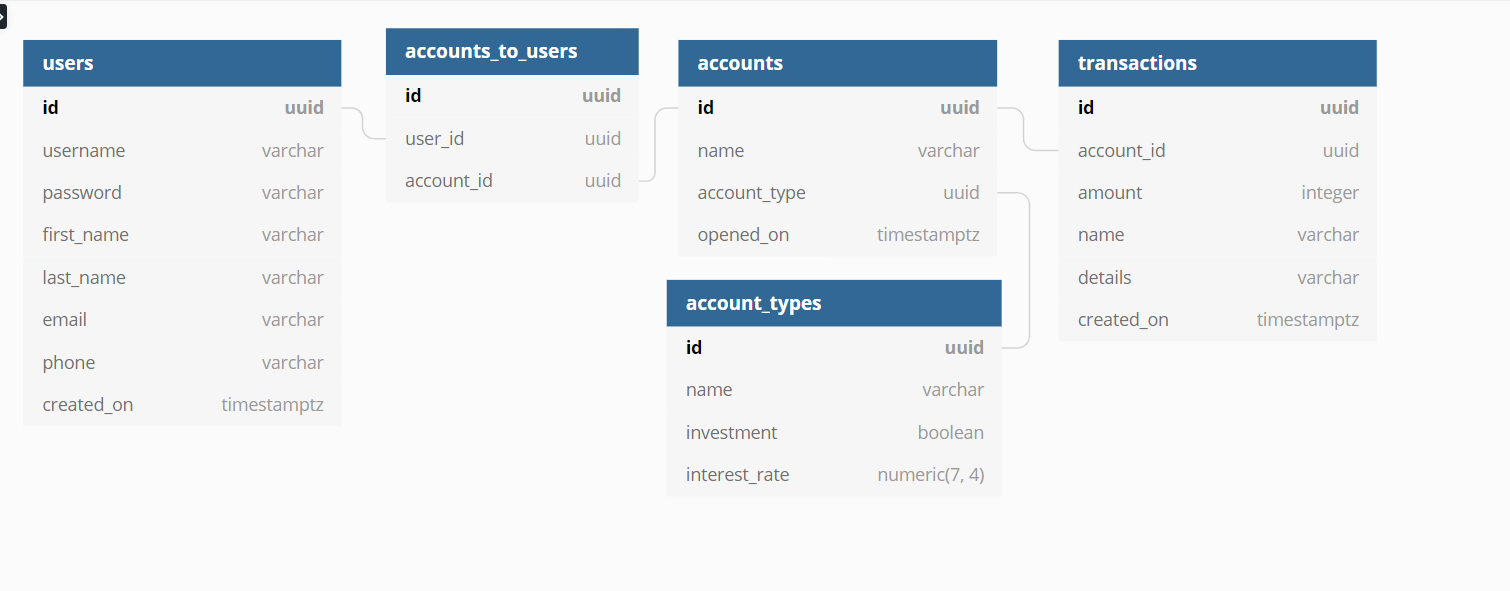
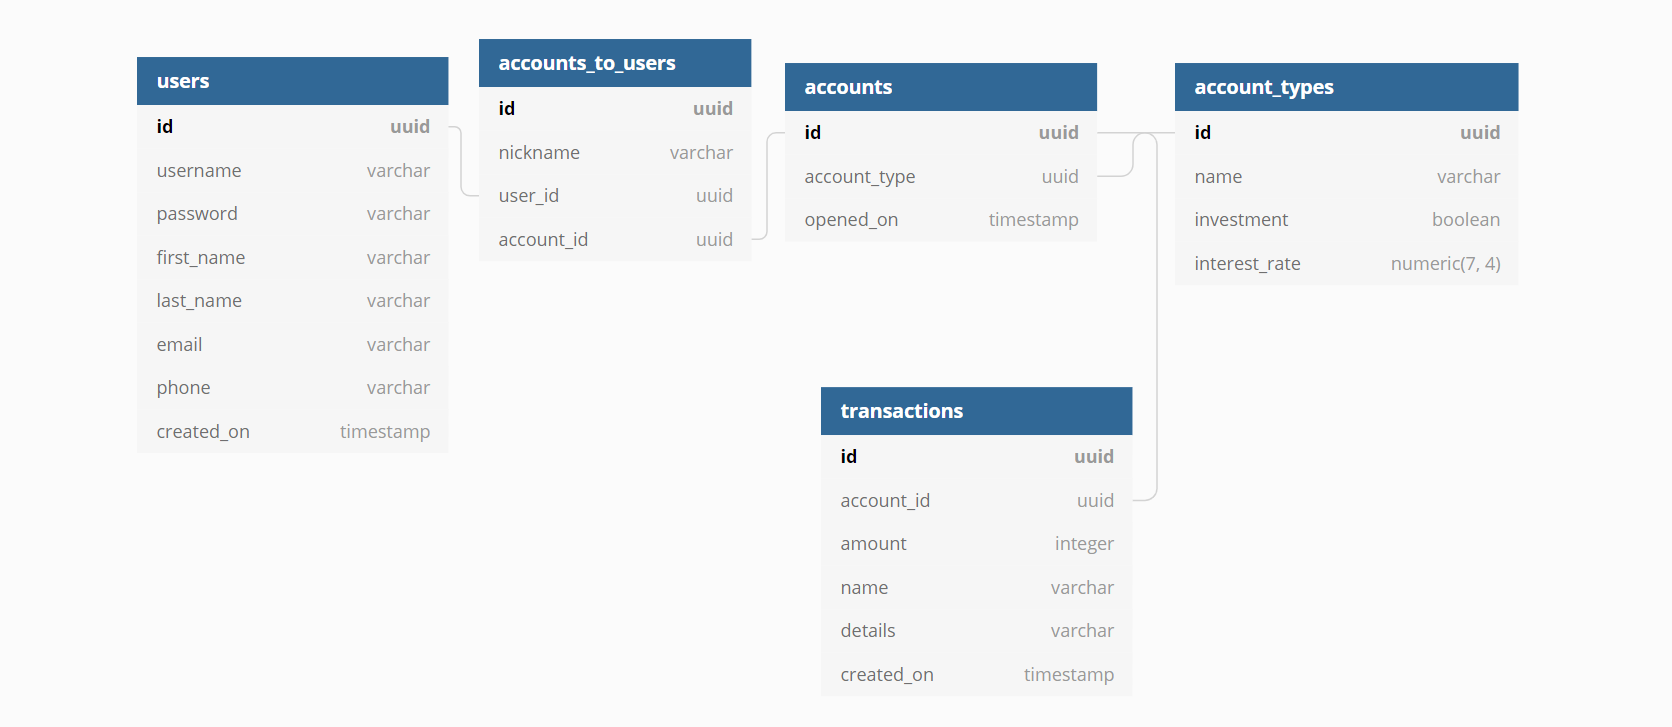
Added routes to create and fetch accounts

diff --git a/routes/accounts.js b/routes/accounts.js
@@ -1,0 +1,90 @@
+const Router = require('koa-router');
+const yup = require('yup');
+const validator = require('../middleware/validator');
+const userRequired = require('../middleware/userRequired');
+const accounts = require('../db/accounts');
+
+const router = new Router({
+    prefix: '/accounts',
+});
+
+/**
+ * @swagger
+ * /accounts/create:
+ *      post:
+ *          tags: [Account]
+ *          summary: Creates a new account for the logged in user
+ *          description: Accepts the a name for the account and an account type to create
+ *          requestBody:
+ *              description: Account Details
+ *              required: true
+ *              content:
+ *                  application/json:
+ *                      schema:
+ *                          type: object
+ *                          required:
+ *                            - name
+ *                            - type
+ *                          properties:
+ *                              name:
+ *                                  type: string
+ *                                  description: Account Name
+ *                                  example: Checking
+ *                              type:
+ *                                  type: string
+ *                                  description: uuid of the account type - this can be located by using [GET /account-types]
+ *                                  example: 1cd84456-0889-11ec-9a03-0242ac130003
+ *          responses:
+ *              201:
+ *                  description: Account Successfully Created
+ */
+router.post(
+    '/create',
+    userRequired,
+    validator({
+        body: yup.object().shape({
+            name: yup.string().required(),
+            type: yup.string().uuid().required(),
+        }),
+    }),
+    async ctx => {
+        const {
+            body: { name, type },
+            user: { id: userId },
+            db,
+        } = ctx.state;
+
+        await accounts.create({ accountType: type, name, userId }, db).catch(e => {
+            ctx.throw(500, e);
+        });
+
+        ctx.status = 201;
+    }
+);
+
+/**
+ * @swagger
+ * /accounts:
+ *      get:
+ *          tags: [Account]
+ *          summary: Get user accounts
+ *          description: Gets a summary of all the accounts associated with this user
+ *          responses:
+ *              200:
+ *                  description: Success
+ */
+router.get('/', userRequired, async ctx => {
+    const {
+        user: { id: userId },
+        db,
+    } = ctx.state;
+
+    const accountList = await accounts.getAccountSummaries(userId, db).catch(e => {
+        ctx.throw(500, e);
+    });
+
+    ctx.status = 200;
+    ctx.body = accountList;
+});
+
+module.exports = router;

diff --git a/routes/user.js b/routes/user.js
@@ -9,23 +9,12 @@ const router = new Router({
     prefix: '/user',
 });
 
-const createUser = async (params, db) => {
-    const usernameTaken = await users.getByUsername(params.username, db);
-
-    if (usernameTaken) {
-        throw 409;
-    }
-
-    const user = await users.create(params, db);
-    return user;
-};
-
 /**
  * @swagger
  * /user/create:
  *      post:
  *          tags: [User]
- *          summary: Logs the user into the site
+ *          summary: Creates a user account and logs them in
  *          description: Accepts username and password, compares that to the database, then sets a cookie to store userid for future requests
  *          requestBody:
  *              description: Credentials
@@ -82,26 +71,33 @@ router.post(
     }),
     async ctx => {
         const {
-            body: { password },
+            body: { password, username },
             db,
         } = ctx.state;
+
+        const usernameTaken = await users.getByUsername(username, db);
+        if (usernameTaken) {
+            ctx.throw(409, 'Username Already Taken');
+        }
+
         const pw = await bcrypt.hash(password, Number(process.env.SALT_ROUNDS));
 
-        const user = await createUser(
-            {
-                ...ctx.state.body,
-                password: pw,
-            },
-            db
-        ).catch(e => {
-            switch (e) {
-                case 409:
-                    ctx.throw(409, 'Username Already Taken');
-                    return;
-                default:
-                    ctx.throw(500, e);
-            }
-        });
+        const user = await users
+            .create(
+                {
+                    ...ctx.state.body,
+                    password: pw,
+                },
+                db
+            )
+            .catch(e => {
+                switch (e) {
+                    case 409:
+                        return;
+                    default:
+                        ctx.throw(500, e);
+                }
+            });
 
         ctx.session.userId = user.id;
         ctx.status = 201;

diff --git a/db/accounts.js b/db/accounts.js
@@ -1,0 +1,39 @@
+const accountQueries = {};
+
+accountQueries.create = (accountObject, db) =>
+    db.oneOrNone(
+        `
+            with ac as (
+                insert into public.accounts (
+                    name,
+                    account_type
+                ) values (
+                    $(name),
+                    $(accountType)
+                )
+                returning id
+            )
+            insert into public.accounts_to_users (user_id, account_id)
+            select $(userId), ac.id
+            from ac;
+        `,
+        accountObject
+    );
+
+accountQueries.getAccountSummaries = (userId, db) =>
+    db.manyOrNone(
+        `
+            select
+                atu.account_id,
+                atu.nickname,
+                sum(t.amount) as current
+            from public.transactions t 
+            join public.accounts_to_users atu 
+                on atu.account_id = t.account_id 
+            where atu.user_id = $(userId)
+            group by atu.account_id, atu.nickname
+        `,
+        { userId }
+    );
+
+module.exports = accountQueries;

diff --git a/middleware/auth.js b/middleware/auth.js
@@ -1,13 +1,33 @@
-const pgp = require('pg-promise')();
-const db = pgp(process.env.PG_STRING);
+const pgp = require('pg-promise');
+const pgpOptions = {
+    receive(data) {
+        const tmp = data[0];
+        for (const prop in tmp) {
+            const camel = pgp.utils.camelize(prop);
+            if (!(camel in tmp)) {
+                for (let i = 0; i < data.length; i++) {
+                    const d = data[i];
+                    d[camel] = d[prop];
+                    delete d[prop];
+                }
+            }
+        }
+    },
+};
+const db = pgp(pgpOptions)(process.env.PG_STRING);
 const users = require('../db/users');
 
 module.exports = async (ctx, next) => {
     ctx.state.db = db;
 
     if (ctx.session.userId) {
+        const login = await users.getById(ctx.session.userId, db);
+        if (!login) {
+            ctx.session = null;
+        }
+
         // eslint-disable-next-line no-unused-vars
-        const { password, ...user } = await users.getById(ctx.session.userId, db);
+        const { password, ...user } = login;
         ctx.state.user = user;
     }
 

diff --git a/routes/account-types.js b/routes/account-types.js
@@ -1,0 +1,30 @@
+const Router = require('koa-router');
+const accountTypes = require('../db/accountTypes');
+
+const router = new Router({
+    prefix: '/account-types',
+});
+
+/**
+ * @swagger
+ * /account-types:
+ *      get:
+ *          tags: [Account-Types]
+ *          summary: Returns a list of account types
+ *          description: Returns the full list of acount types available to the public
+ *          responses:
+ *              201:
+ *                  description: Account Successfully Created
+ */
+router.get('/', async ctx => {
+    const { db } = ctx.state;
+
+    const accountList = await accountTypes.getAllPublic(db).catch(e => {
+        ctx.throw(500, e);
+    });
+
+    ctx.status = 200;
+    ctx.body = accountList;
+});
+
+module.exports = router;

diff --git a/index.js b/index.js
@@ -14,8 +14,6 @@ require('koa-validate')(app);
 
 app.keys = [process.env.SECRET];
 
-const router = require('./routes/swag');
-
 app.use(
     cors({
         allowMethods: ['GET', 'PUT', 'POST', 'DELETE'],
@@ -35,6 +33,6 @@ app.use(
     .use(error)
     .use(auth);
 
-routes(app).use(router.routes()).listen(port);
+routes(app).listen(port);
 
 console.log(`app listening on port: ${port}`);

diff --git a/db/accountTypes.js b/db/accountTypes.js
@@ -1,0 +1,11 @@
+const accountTypeQueries = {};
+
+accountTypeQueries.getAllPublic = db =>
+    db.many(
+        `
+            select *
+            from public.account_types;
+        `
+    );
+
+module.exports = accountTypeQueries;

diff --git a/db/_init/README.md b/db/_init/README.md
@@ -10,7 +10,7 @@ Make sure you run both `createDb.sql` and `seed.sql`, in that order, before atte
 
 ---
 
-### Database Diagram was made using [dbdiagram.io](https://dbdiagram.io/d/612ae885825b5b0146e92c04)
+### Database Diagram was made using [dbdiagram.io](https://dbdiagram.io/)
 
 The diagram can be recreated by using the following code in their editor:
 
@@ -23,18 +23,18 @@ Table "users" {
   "last_name" varchar [not null]
   "email" varchar
   "phone" varchar
-  "created_on" timestamptz [not null, default: `now()`]
+  "created_on" timestamp [not null, default: `now()`]
 }
 
 Table "accounts" {
   "id" uuid [pk, not null, default: `uuid_generate_v4()`]
-  "name" varchar [not null]
   "account_type" uuid [not null]
-  "opened_on" timestamptz [not null, default: `now()`]
+  "opened_on" timestamp [not null, default: `now()`]
 }
 
 Table "accounts_to_users" {
   "id" uuid [pk, not null, default: `uuid_generate_v4()`]
+  "nickname" varchar [not null]
   "user_id" uuid [not null]
   "account_id" uuid [not null]
 }
@@ -52,15 +52,14 @@ Table "transactions" {
   "amount" integer [not null]
   "name" varchar [not null]
   "details" varchar [not null]
-  "created_on" timestamptz [not null, default: `now()`]
+  "created_on" timestamp [not null, default: `now()`]
 }
 
-Ref:"users"."id" < "accounts_to_users"."user_id"
+Ref:"users"."id" < "accounts_to_users"."user_id" [delete: cascade]
 
-Ref:"accounts"."id" < "accounts_to_users"."account_id"
+Ref:"accounts"."id" < "accounts_to_users"."account_id" [delete: cascade]
 
-Ref:"account_types"."id" < "accounts"."account_type"
+Ref:"account_types"."id" < "accounts"."account_type" [delete: cascade]
 
-Ref:"accounts"."id" < "transactions"."account_id"
-
+Ref:"accounts"."id" < "transactions"."account_id" [delete: cascade]
 ```
